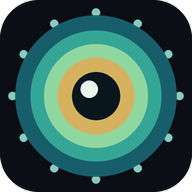
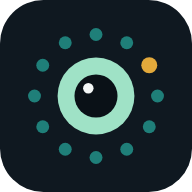
The lookout ring: a new mark, everywhere it appears
Twelve eyes around a pupil, one per agent, one of them amber: the one that
is waiting for you. Drawn from one geometry into mark.svg (transparent),
icon.svg (on night, rounded) and a full-bleed maskable icon whose eyes sit
inside Android's safe circle; PNGs rendered from those at 512, 192 and 180.
The app now offers the SVG as its favicon, the manifest points its maskable
entry at the maskable file, and the service worker cache is bumped so an
installed app picks the new icon up. The site uses the same files.

diff --git a/docs/index.html b/docs/index.html
@@ -6,7 +6,8 @@
 <title>Argus — self-hosted workspace for AI coding agents in tmux</title>
 <meta name="description" content="See which AI coding agent is working and which is waiting for you, open what it wrote, and answer from your phone. Self-hosted, for any CLI in tmux.">
 <link rel="canonical" href="https://andreaderuvo.github.io/argus/">
-<link rel="icon" href="img/mark-192.png">
+<link rel="icon" href="img/icon.svg" type="image/svg+xml">
+<link rel="icon" href="img/mark-192.png" sizes="192x192">
 <link rel="apple-touch-icon" href="img/mark.png">
 <link rel="preload" href="fonts/bricolage-grotesque.woff2" as="font" type="font/woff2" crossorigin>
 <link rel="preload" href="fonts/ibm-plex-sans.woff2" as="font" type="font/woff2" crossorigin>
@@ -92,7 +93,7 @@ p { margin: 0; }
   border-bottom: 1px solid var(--rule); backdrop-filter: blur(8px); }
 .top .wrap { display: flex; align-items: center; gap: 24px; height: 58px; }
 .brand { display: flex; align-items: center; gap: 10px; font: 800 1.15rem var(--display); text-decoration: none; }
-.brand img { width: 26px; height: 26px; border-radius: 7px; }
+.brand img { width: 28px; height: 28px; }
 .top nav { margin-left: auto; display: flex; gap: 22px; align-items: center; font-size: .95rem; }
 .top nav a { text-decoration: none; color: var(--ink2); }
 .top nav a:hover { color: var(--ink); }
@@ -213,7 +214,7 @@ details p { color: var(--ink2); margin-top: 10px; max-width: 68ch; }
 
 <header class="top">
   <div class="wrap">
-    <a class="brand" href="#top"><img src="img/mark-192.png" alt="">Argus</a>
+    <a class="brand" href="#top"><img src="img/mark.svg" alt="" width="28" height="28">Argus</a>
     <nav aria-label="Site">
       <a class="opt" href="#why">Why</a>
       <a class="opt" href="#how">How it works</a>

diff --git a/static/index.html b/static/index.html
@@ -8,8 +8,9 @@
 <meta name="apple-mobile-web-app-status-bar-style" content="black-translucent">
 <title>Argus</title>
 <link rel="manifest" href="/manifest.webmanifest">
-<link rel="icon" href="/icon-192.png">
-<link rel="apple-touch-icon" href="/icon-192.png">
+<link rel="icon" href="/icon.svg" type="image/svg+xml">
+<link rel="icon" href="/icon-192.png" sizes="192x192">
+<link rel="apple-touch-icon" href="/apple-touch-icon.png">
 <link rel="stylesheet" href="/vendor/xterm-6.0.0/xterm.css">
 <link rel="stylesheet" href="/style.css">
 <!-- three.js's own addons import it by bare name — `from 'three'` — which is how the

diff --git a/static/sw.js b/static/sw.js
@@ -1,6 +1,6 @@
 // App shell only. The API and the terminal must never be served from a cache — stale
 // file listings are confusing, and a cached WebSocket is meaningless.
-const CACHE = 'argus-v191';
+const CACHE = 'argus-v192';
 const SHELL = [
   '/',
   '/style.css',
